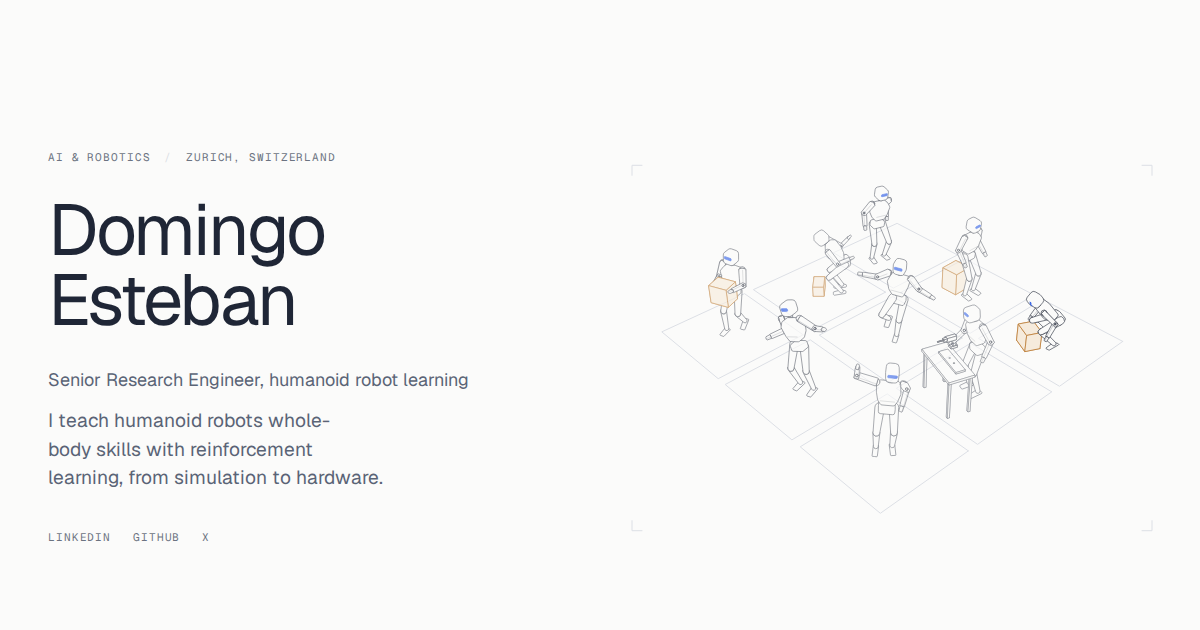
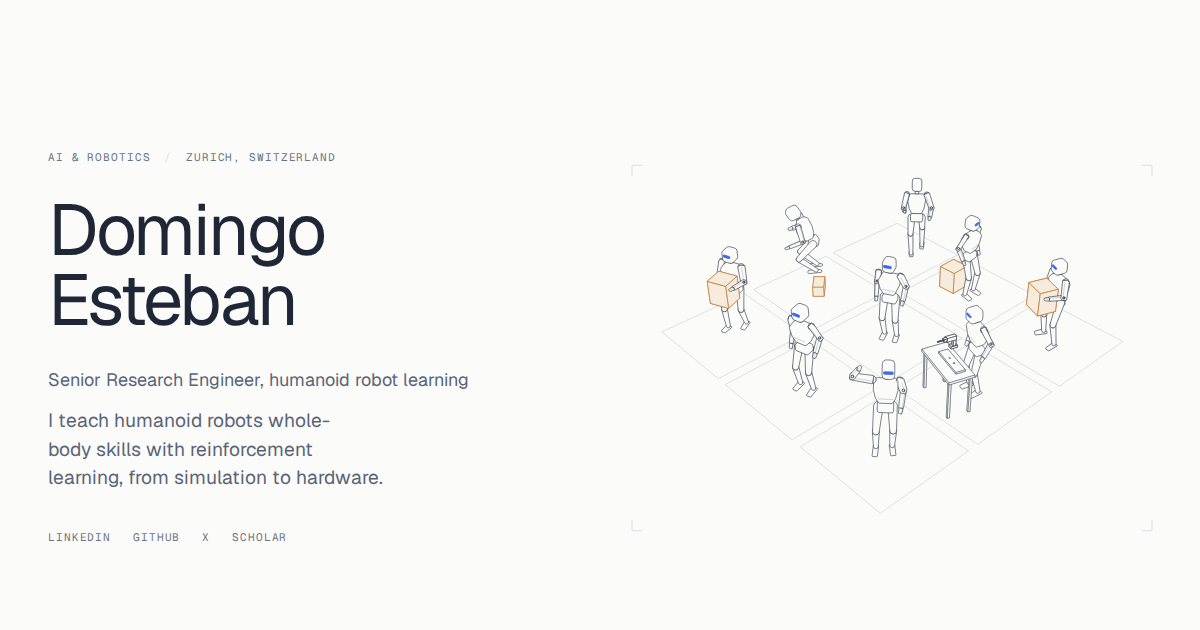
add google scholar to the hero links

Changed region(s): [[0.5858, 0.3016, 0.8942, 0.6937], [0.185, 0.8444, 0.2467, 0.8746]]

diff --git a/src/data/profile.ts b/src/data/profile.ts
@@ -17,4 +17,6 @@ export const profile = {
     { label: 'GitHub', href: 'https://github.com/domingoesteban' },
     { label: 'X', href: 'https://x.com/domingoesteban' },
   ],
+  // In the hero after the links; not in Contact, as it is not a way to reach me.
+  scholar: { label: 'Scholar', href: 'https://scholar.google.com/citations?user=kJh20NUAAAAJ' },
 };
